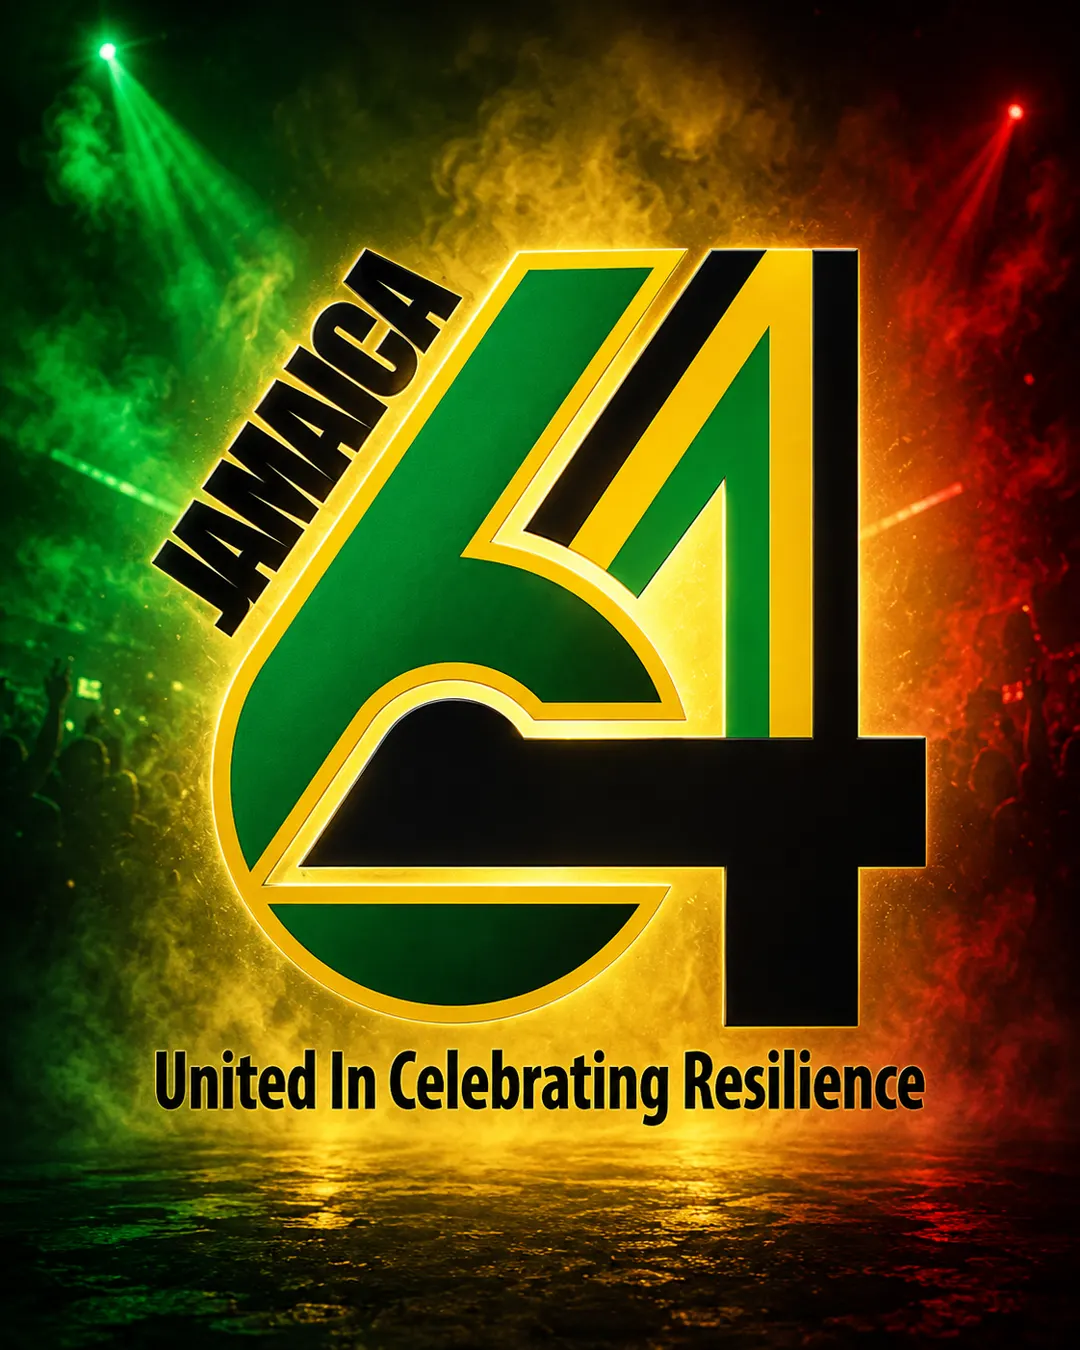
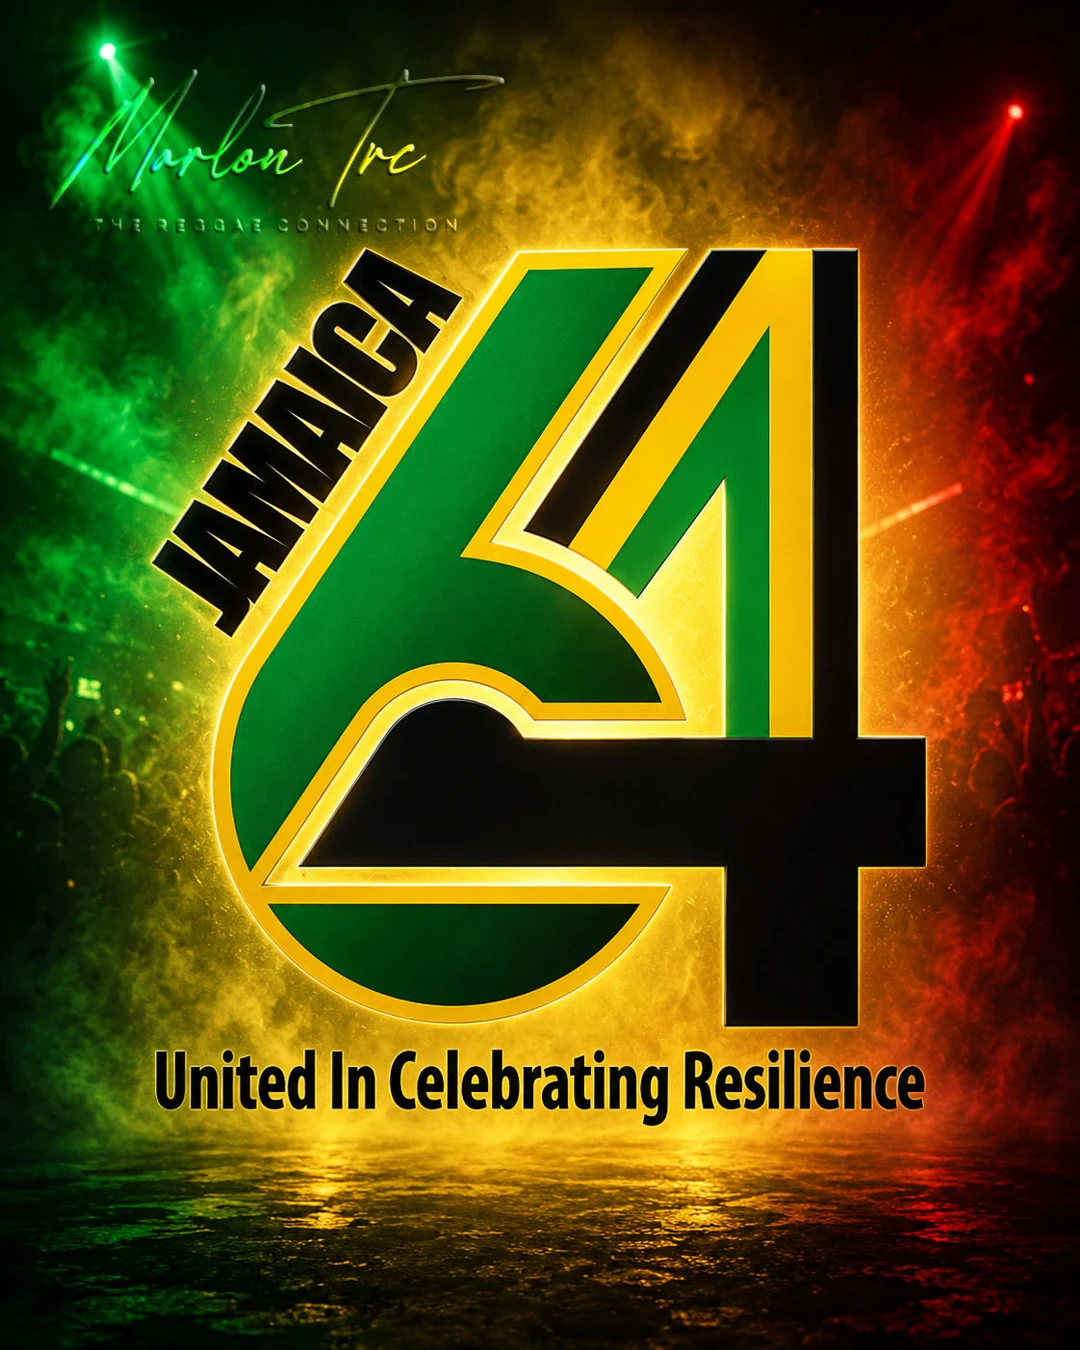
Add Jamaica Independence Celebration TRC Events card, update Jamaica64 art
Team Lenky's annual Jamaica Independence Celebration (Aug 9, at our own
Prairie Lawn venue) joins the Jamaica64 card in the landing page's TRC
Events strip. Jamaica64's card image is swapped for the newer artwork
that includes Marlon Trc's logo.

diff --git a/index.html b/index.html
@@ -752,6 +752,10 @@
       <img src="/assets/images/events/jamaica64.webp" alt="Jamaica64 — United in Celebrating Resilience" loading="lazy">
       <span class="trc-event-cta">Details &amp; Tickets →</span>
     </a>
+    <a href="https://trcevent.com/jamaicaday" target="_blank" rel="noopener noreferrer" class="trc-event-card" aria-label="Jamaica Independence Celebration — Team Lenky presents, Sunday Aug 9 at The Prairie Lawn, details on trcevent.com">
+      <img src="/assets/images/events/jamaica-independence-celebration.webp" alt="Jamaica Independence Celebration — Team Lenky presents, Sunday Aug 9 at The Prairie Lawn" loading="lazy">
+      <span class="trc-event-cta">Details &amp; Tickets →</span>
+    </a>
     <a href="https://trcevent.com/st-catherine-linkup" target="_blank" rel="noopener noreferrer" class="trc-event-card" aria-label="Bad Like Di 90's — St. Catherine Link-Up, details on trcevent.com">
       <img src="/assets/images/events/st-catherine-linkup.webp" alt="Bad Like Di 90's — St. Catherine Link-Up, featuring Suge" loading="lazy">
       <span class="trc-event-cta">Details &amp; Tickets →</span>
